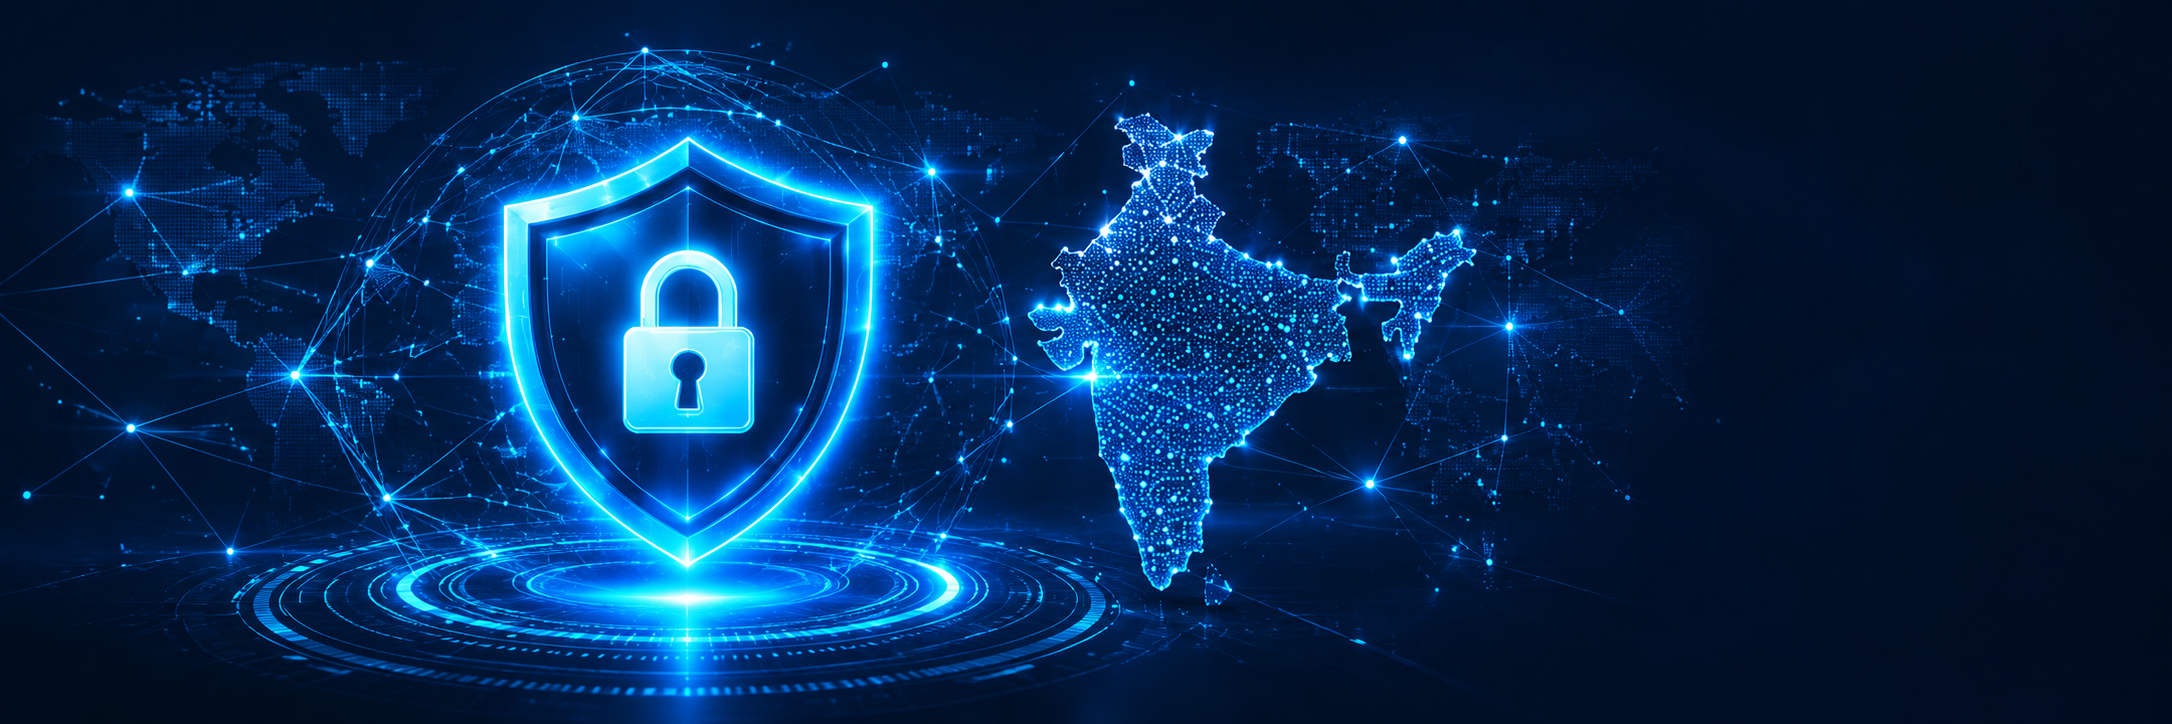
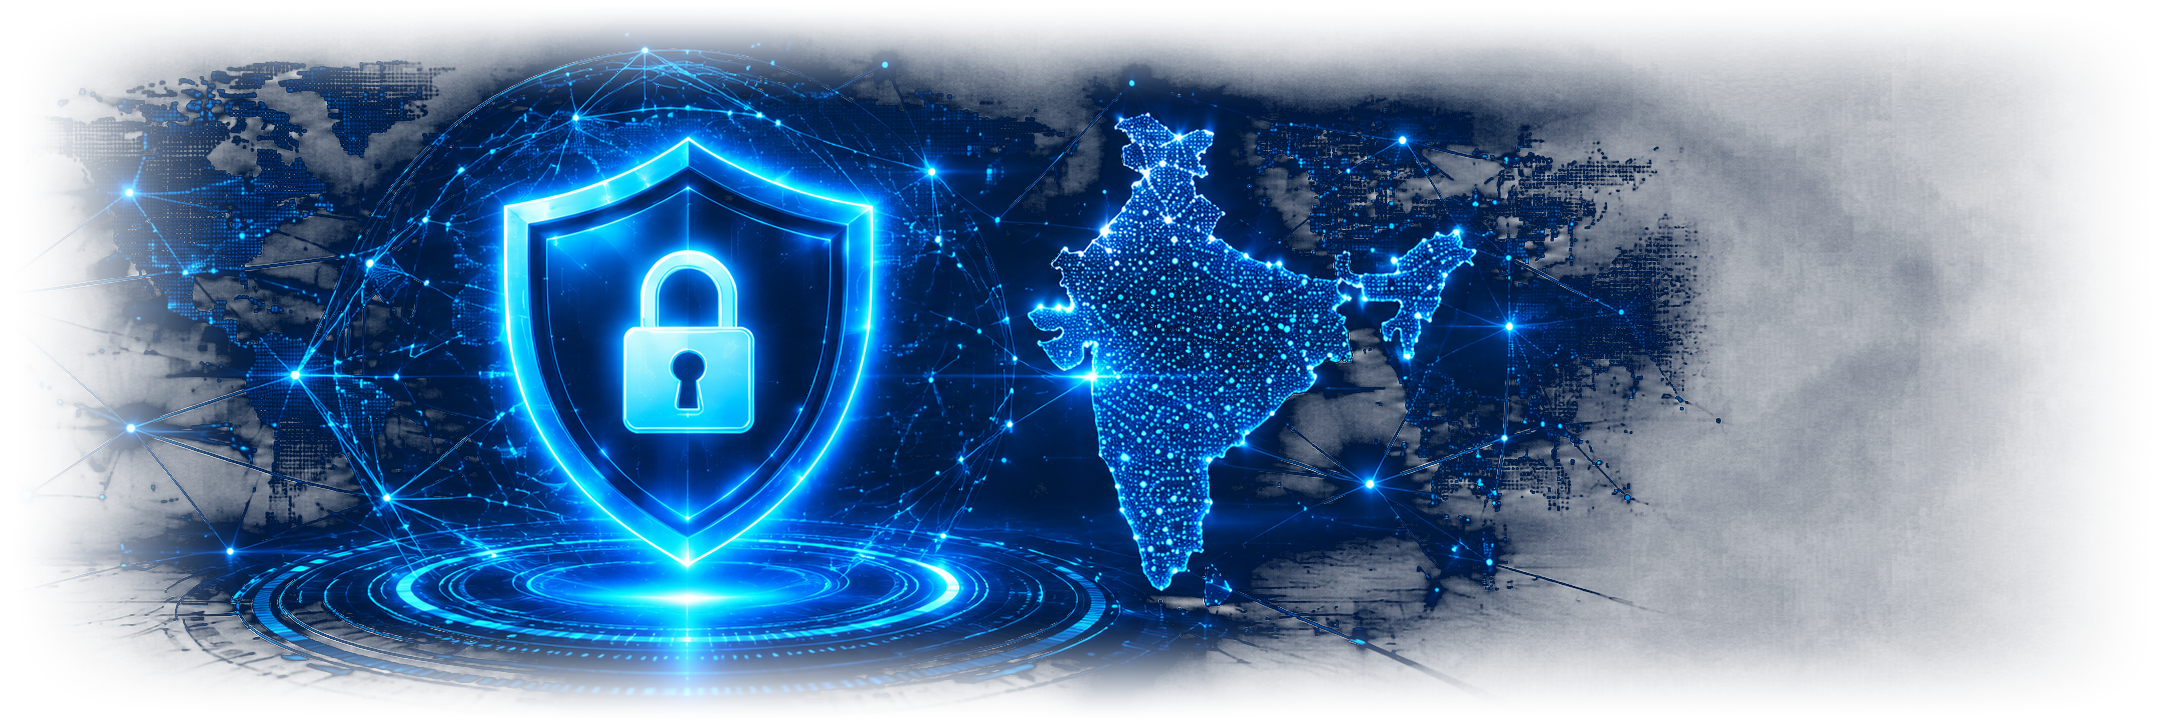
Move breadcrumbs to top bar and make DPDP hero image full and grand with seamless feathering

diff --git a/src/styles/style.css b/src/styles/style.css
@@ -2403,11 +2403,11 @@ nav.breadcrumbs {
   position: relative;
   background-color: #020B19;
   background-image: 
-    radial-gradient(ellipse at 75% 45%, rgba(0, 191, 255, 0.12) 0%, transparent 60%),
-    radial-gradient(circle at 10% 20%, rgba(8, 125, 255, 0.08) 0%, transparent 50%),
+    radial-gradient(circle at 72% 50%, rgba(0, 191, 255, 0.22) 0%, rgba(8, 125, 255, 0.08) 45%, transparent 70%),
+    radial-gradient(circle at 10% 25%, rgba(8, 125, 255, 0.08) 0%, transparent 50%),
     linear-gradient(180deg, #020B19 0%, #030E1F 50%, #020B19 100%);
-  padding: 40px 0 32px;
-  min-height: 520px;
+  padding: 36px 0 56px;
+  min-height: 600px;
   display: flex;
   align-items: center;
   overflow: hidden;
@@ -2416,10 +2416,11 @@ nav.breadcrumbs {
 
 .dpdp-hero-container {
   display: grid;
-  grid-template-columns: 1.05fr 1.35fr;
+  grid-template-columns: 0.95fr 1.45fr;
   align-items: center;
   gap: 36px;
   width: 100%;
+  max-width: 1360px;
 }
 
 .dpdp-hero-content {
@@ -2429,7 +2430,7 @@ nav.breadcrumbs {
 }
 
 .dpdp-hero-heading {
-  font-size: clamp(2rem, 3.2vw, 2.65rem);
+  font-size: clamp(2rem, 3.2vw, 2.75rem);
   font-weight: 800;
   line-height: 1.15;
   margin: 10px 0 16px;
@@ -2438,10 +2439,10 @@ nav.breadcrumbs {
 }
 
 .dpdp-hero-paragraph {
-  font-size: 0.88rem;
+  font-size: 0.92rem;
   color: #9FB2C8;
-  line-height: 1.6;
-  margin-bottom: 24px;
+  line-height: 1.65;
+  margin-bottom: 28px;
 }
 
 .dpdp-hero-visual-wrapper {
@@ -2457,57 +2458,62 @@ nav.breadcrumbs {
   width: 100%;
   display: flex;
   align-items: center;
-  justify-content: flex-end;
-  gap: 20px;
+  justify-content: center;
+  min-height: 420px;
 }
 
 .dpdp-stage-graphic {
   width: 100%;
-  max-width: 600px;
+  max-width: 960px;
   height: auto;
   display: block;
   object-fit: contain;
-  filter: drop-shadow(0 0 30px rgba(0, 191, 255, 0.28));
-  mask-image: linear-gradient(90deg, transparent 0%, black 8%, black 92%, transparent 100%);
-  -webkit-mask-image: linear-gradient(90deg, transparent 0%, black 8%, black 92%, transparent 100%);
+  filter: drop-shadow(0 0 45px rgba(0, 191, 255, 0.45)) drop-shadow(0 0 90px rgba(0, 140, 255, 0.25));
+  transform: scale(1.22);
+  transform-origin: 52% 50%;
+  transition: transform 0.4s ease, filter 0.4s ease;
 }
 
 .dpdp-floating-chips {
+  position: absolute;
+  right: -12px;
+  top: 50%;
+  transform: translateY(-50%);
   display: flex;
   flex-direction: column;
   gap: 12px;
-  z-index: 3;
-  flex-shrink: 0;
-  min-width: 165px;
+  z-index: 5;
+  min-width: 168px;
 }
 
 .dpdp-chip-item {
   display: flex;
   align-items: center;
-  gap: 10px;
-  background: rgba(6, 22, 43, 0.85);
-  border: 1px solid rgba(0, 191, 255, 0.25);
-  border-radius: 8px;
-  padding: 8px 14px;
-  backdrop-filter: blur(10px);
-  box-shadow: 0 4px 16px rgba(0, 0, 0, 0.4);
+  gap: 12px;
+  background: rgba(4, 18, 38, 0.88);
+  border: 1px solid rgba(0, 191, 255, 0.32);
+  border-radius: 9px;
+  padding: 9px 15px;
+  backdrop-filter: blur(12px);
+  -webkit-backdrop-filter: blur(12px);
+  box-shadow: 0 6px 20px rgba(0, 0, 0, 0.5), inset 0 1px 0 rgba(255, 255, 255, 0.08);
   transition: all var(--transition-fast);
   cursor: default;
 }
 
 .dpdp-chip-item:hover {
-  border-color: #00BFFF;
-  background: rgba(8, 30, 58, 0.95);
+  border-color: #00E5FF;
+  background: rgba(6, 26, 54, 0.96);
   transform: translateX(-4px);
-  box-shadow: 0 0 18px rgba(0, 191, 255, 0.4);
+  box-shadow: 0 0 20px rgba(0, 191, 255, 0.5), inset 0 1px 0 rgba(255, 255, 255, 0.15);
 }
 
 .dpdp-chip-icon {
-  width: 28px;
-  height: 28px;
-  border-radius: 6px;
-  background: rgba(0, 191, 255, 0.12);
-  border: 1px solid rgba(0, 191, 255, 0.35);
+  width: 30px;
+  height: 30px;
+  border-radius: 7px;
+  background: rgba(0, 191, 255, 0.14);
+  border: 1px solid rgba(0, 191, 255, 0.4);
   display: flex;
   align-items: center;
   justify-content: center;
@@ -2517,18 +2523,18 @@ nav.breadcrumbs {
 }
 
 .dpdp-chip-item:hover .dpdp-chip-icon {
-  background: rgba(0, 191, 255, 0.25);
+  background: rgba(0, 191, 255, 0.3);
   border-color: #00E5FF;
-  box-shadow: 0 0 10px var(--accent-cyan);
+  box-shadow: 0 0 12px var(--accent-cyan);
 }
 
 .dpdp-chip-icon svg {
-  width: 15px;
-  height: 15px;
+  width: 16px;
+  height: 16px;
 }
 
 .dpdp-chip-label {
-  font-size: 0.82rem;
+  font-size: 0.84rem;
   font-weight: 600;
   color: #FFFFFF;
   white-space: nowrap;
@@ -3131,13 +3137,19 @@ nav.breadcrumbs {
 @media (max-width: 1100px) {
   .dpdp-hero-container {
     grid-template-columns: 1fr;
-    gap: 32px;
+    gap: 36px;
   }
   .dpdp-hero-content {
     max-width: 100%;
   }
   .dpdp-hero-visual-wrapper {
     justify-content: center;
+  }
+  .dpdp-visual-stage {
+    min-height: auto;
+  }
+  .dpdp-stage-graphic {
+    transform: scale(1.04);
   }
   .dpdp-understanding-grid {
     grid-template-columns: 1fr;
@@ -3159,6 +3171,24 @@ nav.breadcrumbs {
 }
 
 @media (max-width: 900px) {
+  .dpdp-visual-stage {
+    flex-direction: column;
+  }
+  .dpdp-stage-graphic {
+    transform: none;
+    max-width: 600px;
+  }
+  .dpdp-floating-chips {
+    position: static;
+    transform: none;
+    display: grid;
+    grid-template-columns: repeat(2, 1fr);
+    width: 100%;
+    max-width: 500px;
+    margin-top: 24px;
+    right: auto;
+    top: auto;
+  }
   .dpdp-matters-grid {
     grid-template-columns: repeat(2, 1fr);
   }
@@ -3189,7 +3219,9 @@ nav.breadcrumbs {
     gap: 16px;
   }
   .dpdp-floating-chips {
+    grid-template-columns: 1fr;
     width: 100%;
+    max-width: 100%;
     min-width: unset;
   }
   .dpdp-matters-grid {

diff --git a/src/pages/DPDPPage.jsx b/src/pages/DPDPPage.jsx
@@ -4,6 +4,16 @@ import { Link } from 'react-router-dom';
 export default function DPDPPage() {
   return (
     <main id="main-content" className="dpdp-page">
+      {/* Breadcrumbs Navigation */}
+      <nav className="breadcrumbs" aria-label="Breadcrumb">
+        <div className="container">
+          <ol className="breadcrumb-list">
+            <li className="breadcrumb-item"><Link to="/">Home</Link></li>
+            <li className="breadcrumb-separator" aria-hidden="true">&rsaquo;</li>
+            <li className="breadcrumb-item active" aria-current="page">DPDP Compliance</li>
+          </ol>
+        </div>
+      </nav>
       
       {/* =========================================================================
           SECTION 1: HERO SECTION
@@ -13,13 +23,6 @@ export default function DPDPPage() {
           
           {/* Left Column: Text & Actions */}
           <div className="dpdp-hero-content">
-            {/* Breadcrumbs */}
-            <div className="breadcrumbs-bar">
-              <Link to="/">Home</Link>
-              <span className="breadcrumb-sep" aria-hidden="true">&gt;</span>
-              <span className="breadcrumb-current">DPDP Compliance</span>
-            </div>
-
             <span className="hero-eyebrow">DATA PRIVACY &amp; PROTECTION</span>
             
             <h1 id="dpdp-hero-title" className="dpdp-hero-heading">
